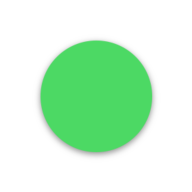
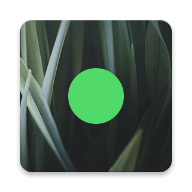
fix: поправлены иконки и цвета

diff --git a/src/index.html b/src/index.html
@@ -8,11 +8,11 @@
 		<meta name="format-detection" content="telephone=no">
 		<link href="/css/libs.min.css" rel="stylesheet">
 		<link href="/css/main.min.css" rel="stylesheet">
-		<link rel="apple-touch-icon" sizes="180x180" href="/apple-touch-icon.png">
-		<link rel="icon" type="image/png" sizes="32x32" href="/favicon-32x32.png">
-		<link rel="icon" type="image/png" sizes="16x16" href="/favicon-16x16.png">
-		<link rel="manifest" href="/manifest.json">
-		<link rel="mask-icon" href="/safari-pinned-tab.svg" color="#4cd964">
+		<link rel="apple-touch-icon" sizes="180x180" href="/apple-touch-icon.png?v=2">
+		<link rel="icon" type="image/png" sizes="32x32" href="/favicon-32x32.png?v=2">
+		<link rel="icon" type="image/png" sizes="16x16" href="/favicon-16x16.png?v=2">
+		<link rel="manifest" href="/manifest.json?v=2">
+		<link rel="mask-icon" href="/safari-pinned-tab.svg?v=2" color="#2AC845">
 		<meta name="apple-mobile-web-app-title" content="Mahoweek">
 		<meta name="application-name" content="Mahoweek">
 		<meta name="theme-color" content="#303030">

diff --git a/src/less/variables.less b/src/less/variables.less
@@ -21,7 +21,7 @@
 @light-disabled: darken(#fff, 50%);
 @light-divider: darken(#fff, 88%);
 
-@color-red: #F44336; // #ff3b30;
+@color-red: #F44336;
 @color-yellow: #FDD835;
 @color-green: #4cd964;
 @color-teal-blue: #5ac8fa;

diff --git a/src/blocks/board/board.less b/src/blocks/board/board.less
@@ -13,7 +13,7 @@
 	background-position: 50% 50%;
 
 	&--leaves {
-		background-color: #323e37;
+		background-color: #222828;
 		background-image: url("../img/themes/leaves-xs.jpg");
 
 		@media (min-width: 768px) {
